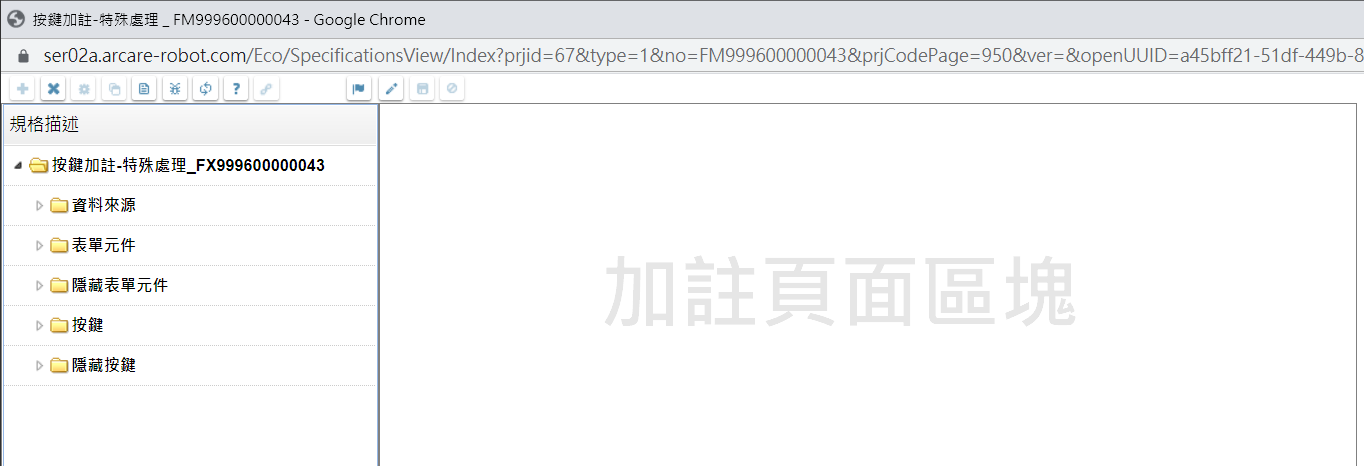
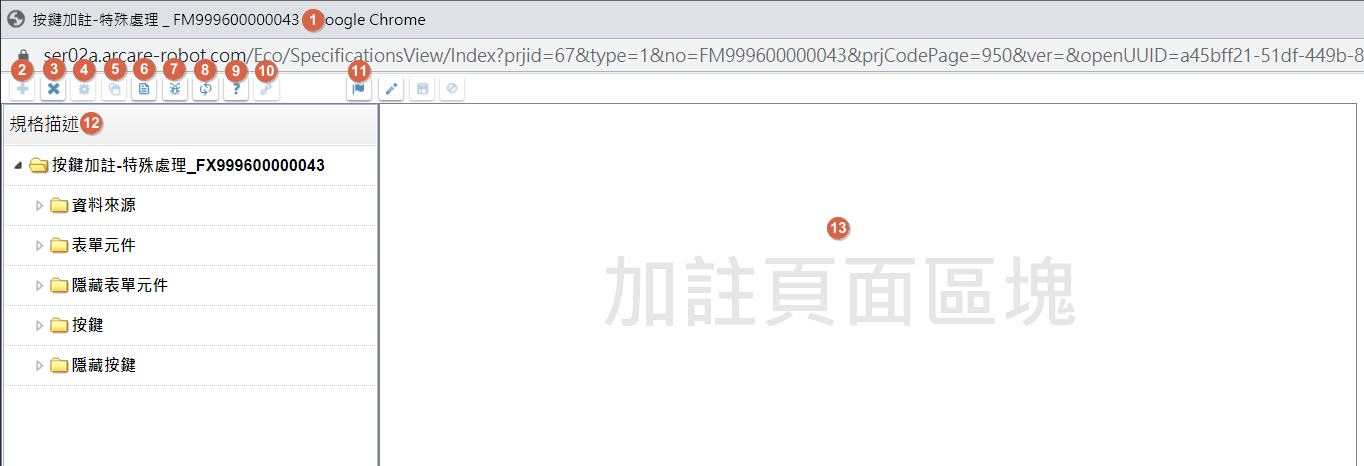
#8550 IDE_表單規格定義

diff --git a/8.10.0/UPDATE/ITEM_13/IDE/SpecificationsView.md b/8.10.0/UPDATE/ITEM_13/IDE/SpecificationsView.md
@@ -35,7 +35,7 @@
             * 執行後, 刪除單元及所引用的加註資料, 判重新顯示`(8)規格描述區塊`, 駐留筆節點下的行為選項
         * 動作流程
             * ![pic][image_flow_delete_children_node]
-    * `(1)設定`
+    * `(4)設定`
         * 用途說明
         * 規格說明
             * 當駐留節點為【元件名_元件料號、隱藏元件名_元件料號、按鍵名_按鍵料號、隱藏按鍵名_按鍵料號】按鈕致能, 否則 除能
@@ -44,7 +44,7 @@
             * 關閉設定的介面後, 重新顯示`(8)規格描述區塊`, 駐留筆節點下的行為選項
         * 動作流程
             * ![pic][image_flow_behavior]
-    * `(2)複製`
+    * `(5)複製`
         * 用途說明
         * 規格說明
             * 當駐留節點為【元件名_元件料號、隱藏元件名_元件料號、按鍵名_按鍵料號、隱藏按鍵名_按鍵料號】按鈕致能, 否則 除能
@@ -53,14 +53,14 @@
             * 關閉設定的介面後, 重新顯示`(8)規格描述區塊`, 駐留筆節點下的行為選項
         * 動作流程
             * ![pic][image_flow_copy_annotation]
-    * `(2)規格備註`
+    * `(6)規格備註`
         * 用途說明
         * 規格說明
             * 當駐留節點為【報表名稱_報表成品料號、基本設定、資料區、元件名_元件料號、隱藏元件名_元件料號、按鍵名_按鍵料號、隱藏按鍵名_按鍵料號】按鈕致能, 否則 除能
             * 當致能時, 執行按鈕, 依駐留節點開啟對應的[規格備註][link_specification], 開啟後傳入單元名稱、單元料號
         * 動作流程
             * ![pic][image_flow_open_spec]
-    * `(3)檢錯`
+    * `(7)檢錯`
         * 用途說明
             * 檢查表單及表單元件已完成的規格, 進行語法及完成度的檢查
         * 規格說明
@@ -69,27 +69,27 @@
             * 當檢查完成, 且存在錯誤時, 展開所有節點, 錯誤單元以紅字顯示, 並以Hint方式顯示第一筆錯誤資訊
         * 動作流程
             * ![pic][image_flow_error_detection]
-    * `(4)重新整理`
+    * `(8)重新整理`
         * 用途說明
         * 規格說明
             * 重新顯示`(8)規格描述區塊`, 若已駐留節點, 重整後駐留節點須為原駐留節點
         * 動作流程
             * ![pic][image_flow_reflash]
-    * `(5)線上說明`
+    * `(9)線上說明`
         * 用途說明
         * 規格說明
             * 當駐留節點為【資料來源、表單元件、隱藏表單元件、按鍵、隱藏按鍵】按鈕除能, 否則 致能
             * 依駐留節點開啟對應的線上說明文件
         * 動作流程
             * ![pic][image_flow_online_help]
-    * `(6)相關元件`
+    * `(10)相關元件`
         * 用途說明
         * 規格說明
             * 當駐留節點為【元件名_元件料號、隱藏元件名_元件料號】按鈕致能, 否則 除能
             * 依駐留報表元件單元, 開啟[元件欄位清單][], 傳入: 報表名稱、報表元件名稱
         * 動作流程
             * ![pic][image_flow_components]
-    * `(7)加註狀態`
+    * `(11)加註狀態`
         * 用途說明
             * 記錄該表單是否加註完成的標記
         * 規格說明
@@ -97,7 +97,7 @@
             * 當狀態為**完工**時, 執行按鍵將狀態改為**開工**, 顯示開工圖示: ![pic][image_form_annotation_start]
         * 動作流程
             * ![pic][image_flow_annotation_state]
-    * `(8)規格描述區塊`
+    * `(12)規格描述區塊`
         * 用途說明
         * 規格說明
             * 節點顯示方式, 請參考畫面及下列規則 (<font style='color:blue;'>藍色字體為變動內容</font>)
@@ -332,7 +332,7 @@
                 * 規格定義視窗的寬度, 在調整過程中同比例增加寬度
         * 動作流程
             * ![pic][image_flow_annotation]
-    * `(9)加註頁面區塊`
+    * `(13)加註頁面區塊`
         * 用途說明
         * 規格說明
             * 顯示規格定義內容
